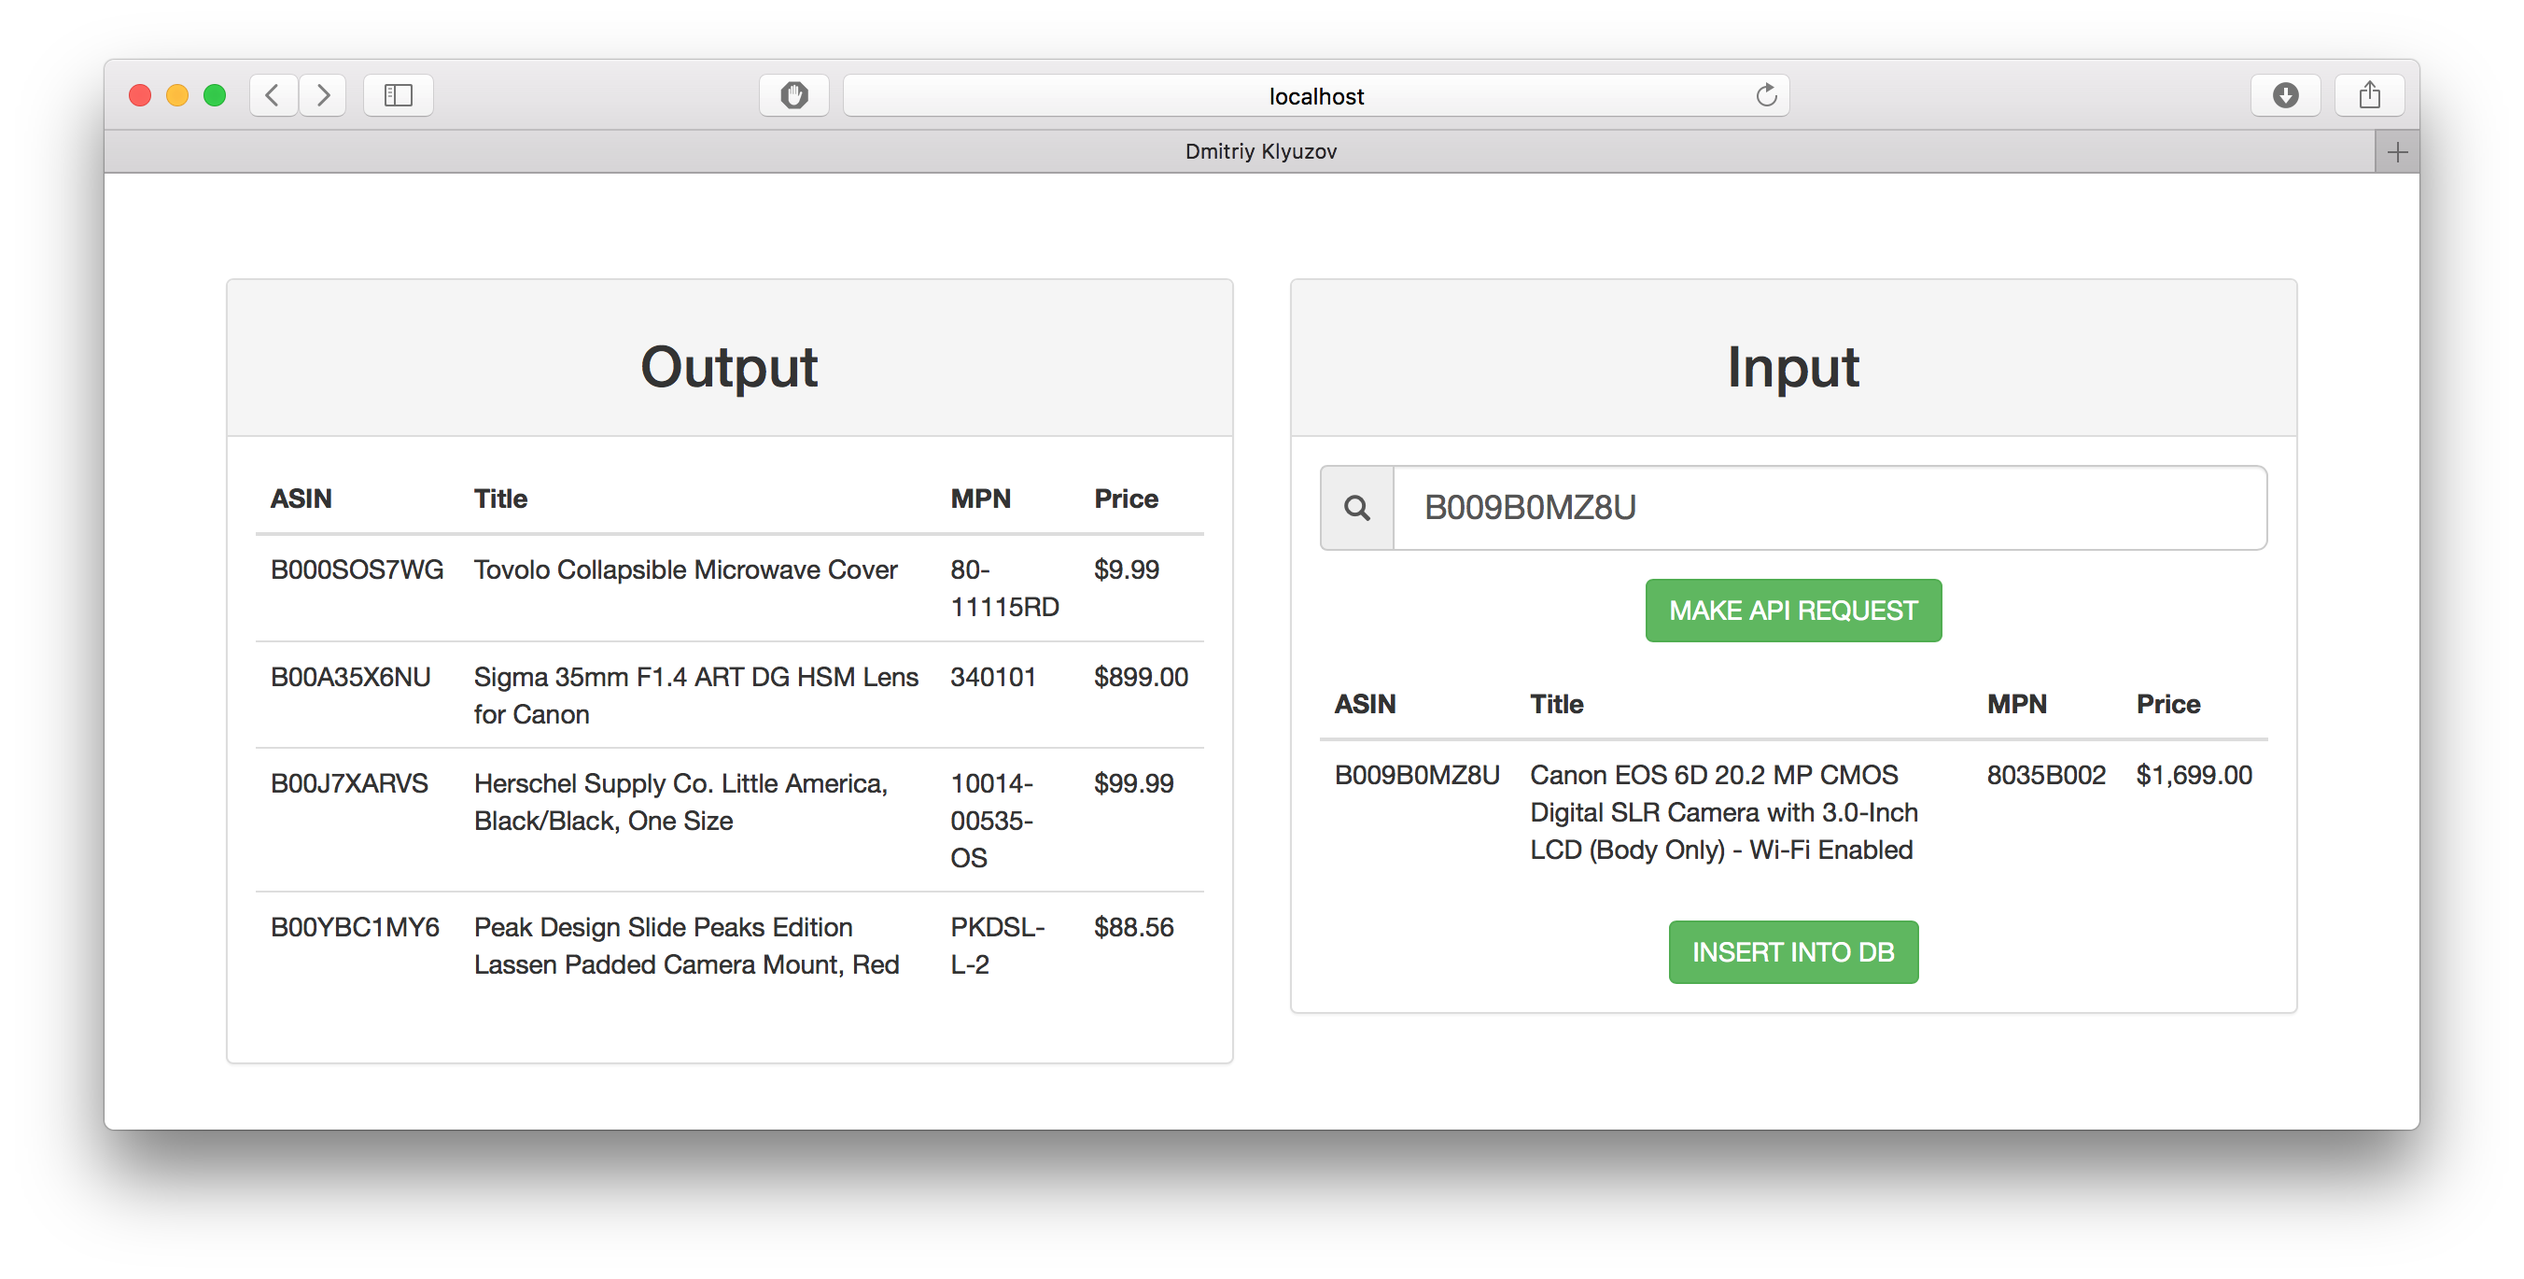
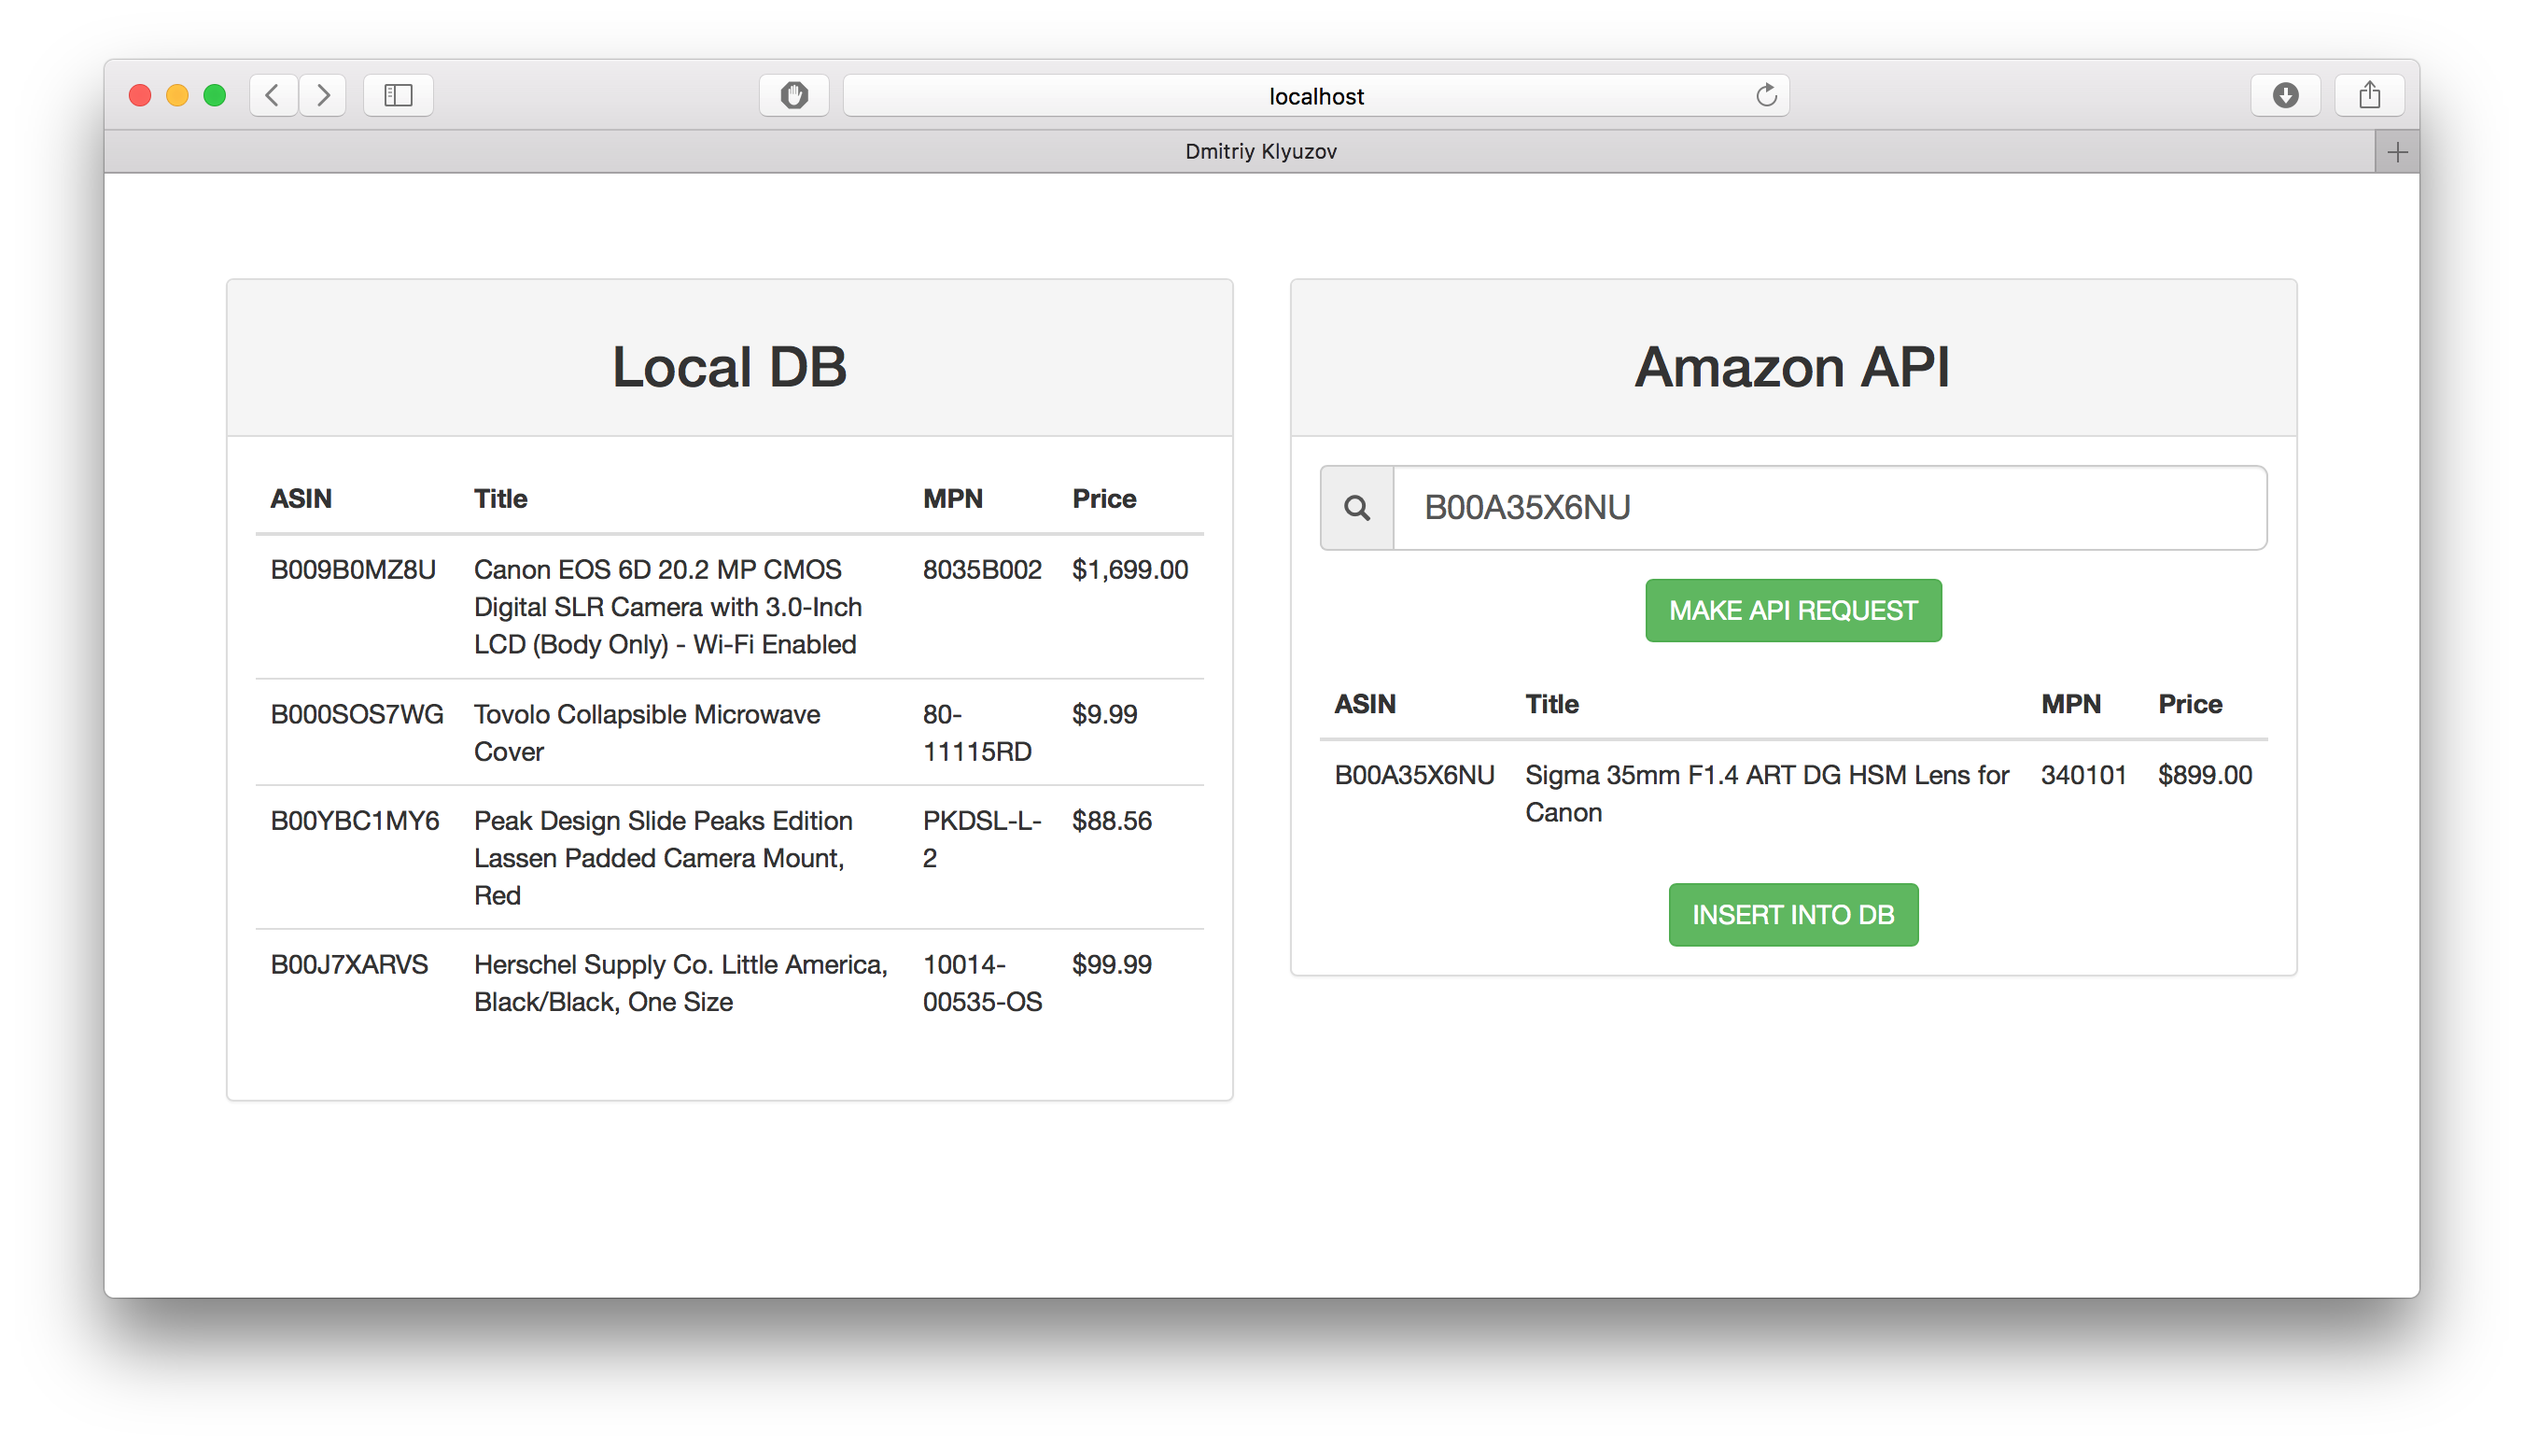
added third screenshot, search results clear upon inserting

diff --git a/index.html b/index.html
@@ -21,7 +21,7 @@
 		<div class="col-lg-6">
 			<div class="panel panel-default" id="inputPanel">
 				<div class="panel-heading">
-					<h2 class="text-center">Output</h2>
+					<h2 class="text-center">Local DB</h2>
 				</div>
 
 				<div class="panel-body">
@@ -45,7 +45,7 @@
 		<div class="col-lg-6">
 			<div class="panel panel-default" id="inputPanel">
 				<div class="panel-heading">
-					<h2 class="text-center">Input</h2>
+					<h2 class="text-center">Amazon API</h2>
 				</div>
 				<div class="panel-body">
 					<form onsubmit="event.preventDefault(); itemLookup($('#ASIN').val());">

diff --git a/js/insertIntoDB.js b/js/insertIntoDB.js
@@ -7,6 +7,9 @@ function insertIntoDB(ASIN, Title, MPN, Price){
 		success: function(result){
 			if(result=='true'){
 				getRowsFromDB();
+				$('#myTable2').hide();
+				$('#insertBtn').hide();
+				$('#resultRow').html();
 			}
 			else alert('This ASIN is already in the database.');
 		}

diff --git a/README.md b/README.md
@@ -37,9 +37,13 @@ Please Note - Use an existing web server or set up apache (WAMP / MAMP / XAAMP, 
 
 Original page
 
-![alt text](https://github.com/dmitriyklyuzov/quantum/blob/master/screenshot.png?raw=true "Screenshot")
+![alt text](https://github.com/dmitriyklyuzov/quantum/blob/master/screenshot1.png?raw=true "Screenshot 1")
 
 Same page after looking up an ASIN
 
 ![alt text](https://github.com/dmitriyklyuzov/quantum/blob/master/screenshot2.png?raw=true "Screenshot 2")
+
+And after inserting the item into the local database
+
+![alt text](https://github.com/dmitriyklyuzov/quantum/blob/master/screenshot3.png?raw=true "Screenshot 3")
 
